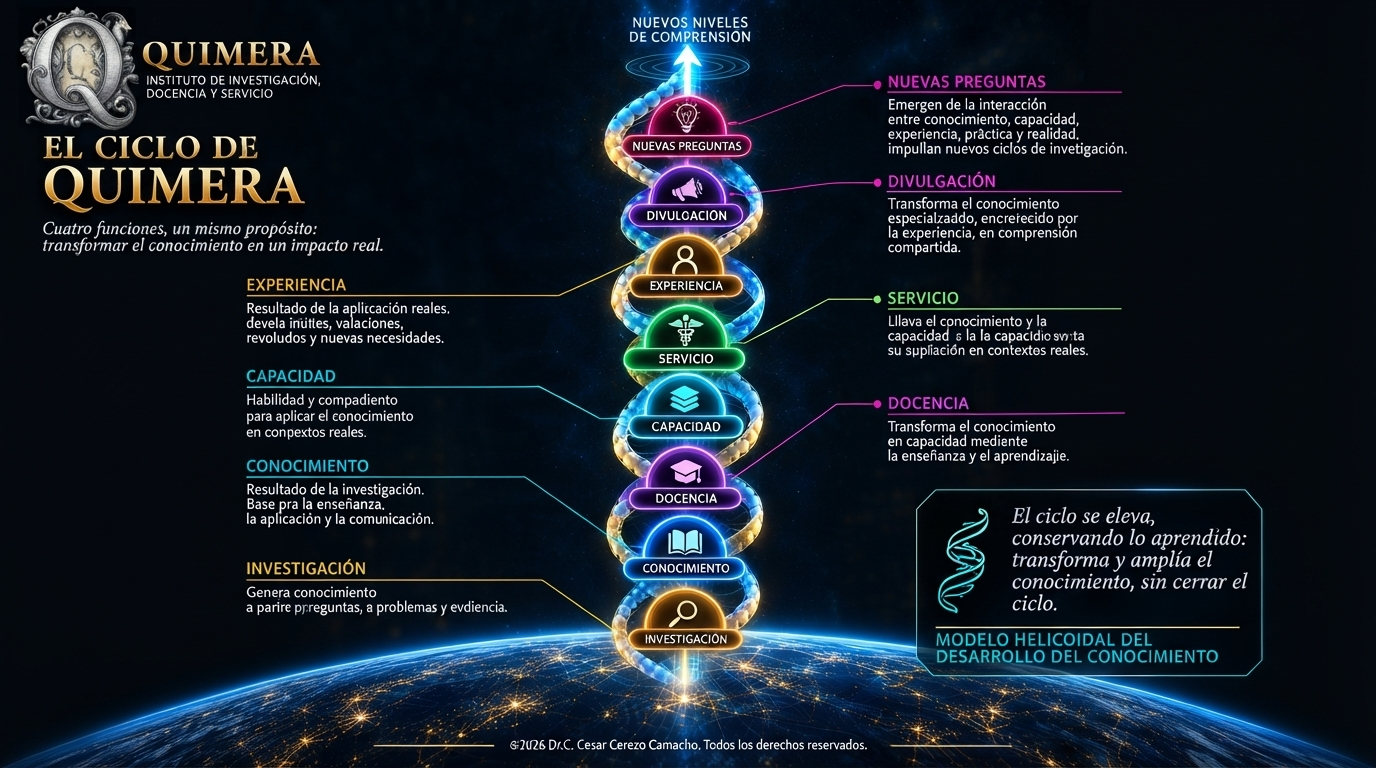
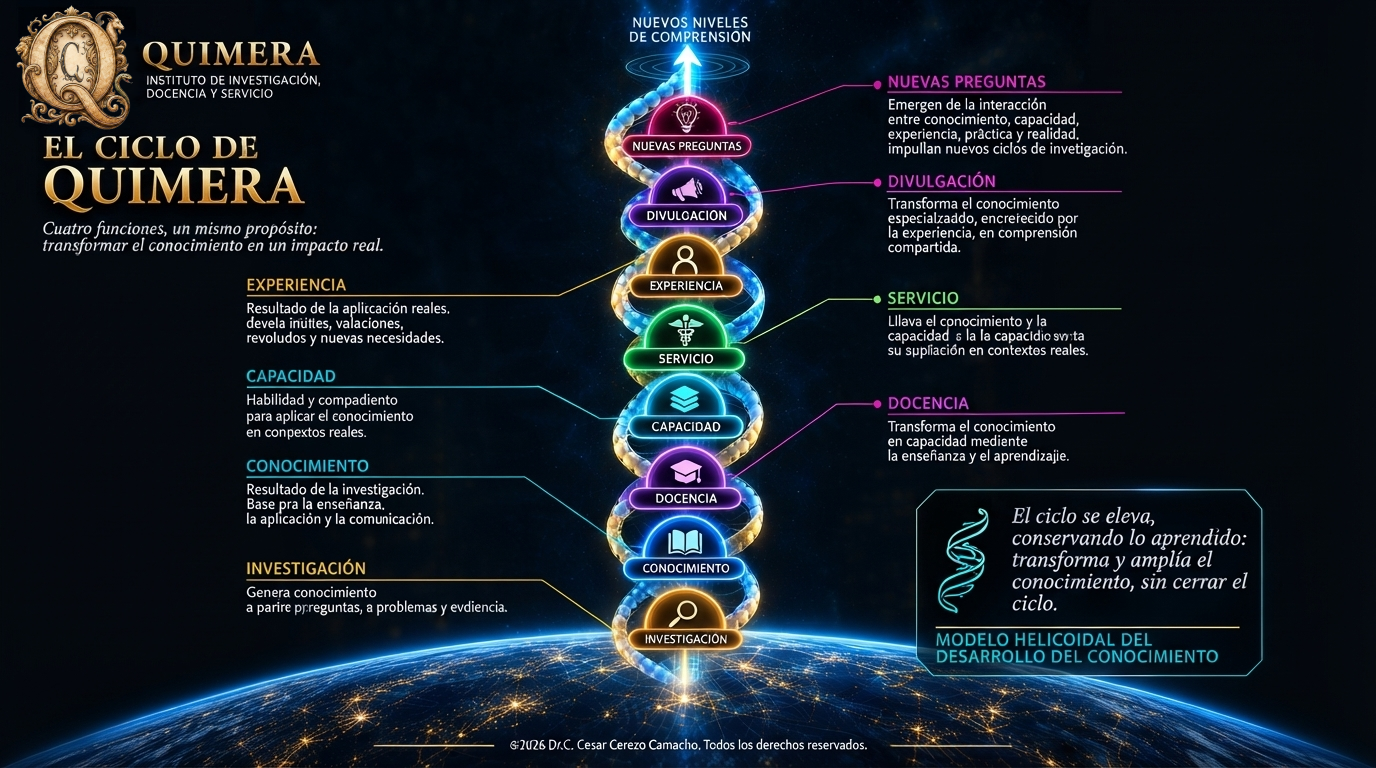
Quimera activada

Changed region(s): [[0.0, 0.0, 0.125, 0.1875]]

diff --git a/index.html b/index.html
@@ -42,7 +42,7 @@
             left: 0;
             width: 100vw;
             height: 100vh;
-            background: linear-gradient(rgba(11, 19, 41, 0.01), rgba(11, 19, 41, 0.01)), url('Quimera_Mision.png');
+            background: linear-gradient(rgba(11, 19, 41, 0.01), rgba(11, 19, 41, 0.01)), url('Quimera_Mision.webp');
             background-size: cover;
             background-position: center center;
             z-index: -1;
@@ -607,11 +607,11 @@
                 content: [
                     { type: 'p', text: "La misión de Quimera se desarrolla mediante cinco procesos interrelacionados:" },
                     { type: 'ul', items: [
-                        "<a href='#' class='modal-link' data-img='Investigacion.png'>01. INVESTIGACIÓN.</a>",
-                        "<a href='#' class='modal-link' data-img='Formacion.png'>02. FORMACIÓN.</a>",
-                        "<a href='#' class='modal-link' data-img='Desarrollo.png'>03. DESARROLLO.</a>",
-                        "<a href='#' class='modal-link' data-img='Aplicacion.png'>04. APLICACIÓN.</a>",
-                        "<a href='#' class='modal-link' data-img='Transferencia.png'>05. TRANSFERENCIA.</a>"
+                        "<a href='#' class='modal-link' data-img='Investigacion.webp'>01. INVESTIGACIÓN.</a>",
+                        "<a href='#' class='modal-link' data-img='Formacion.webp'>02. FORMACIÓN.</a>",
+                        "<a href='#' class='modal-link' data-img='Desarrollo.webp'>03. DESARROLLO.</a>",
+                        "<a href='#' class='modal-link' data-img='Aplicacion.webp'>04. APLICACIÓN.</a>",
+                        "<a href='#' class='modal-link' data-img='Transferencia.webp'>05. TRANSFERENCIA.</a>"
                     ]}
                 ]
             },
@@ -619,7 +619,7 @@
                 title: "EL CICLO DE QUIMERA.",
                 content: [
                     { type: 'p', text: "Estos procesos no funcionan como etapas aisladas." },
-                    { type: 'p', text: "Forman un ciclo dinámico: <a href='#' class='modal-link' data-img='ECQ.png'>EL CICLO DE QUIMERA</a>." },
+                    { type: 'p', text: "Forman un ciclo dinámico: <a href='#' class='modal-link' data-img='ECQ.webp'>EL CICLO DE QUIMERA</a>." },
                     { type: 'flow', text: "INVESTIGACIÓN → CONOCIMIENTO → FORMACIÓN → DOCENCIA → CAPACIDAD → DESARROLLO → HERRAMIENTAS → APLICACIÓN → EXPERIENCIA → TRANSFERENCIA → NUEVAS PREGUNTAS → INVESTIGACIÓN" },
                     { type: 'p', text: `Cada resultado puede convertirse en el punto de partida de una nueva investigación.` },
                     { type: 'p', text: `Cada problema puede generar conocimiento.` },
